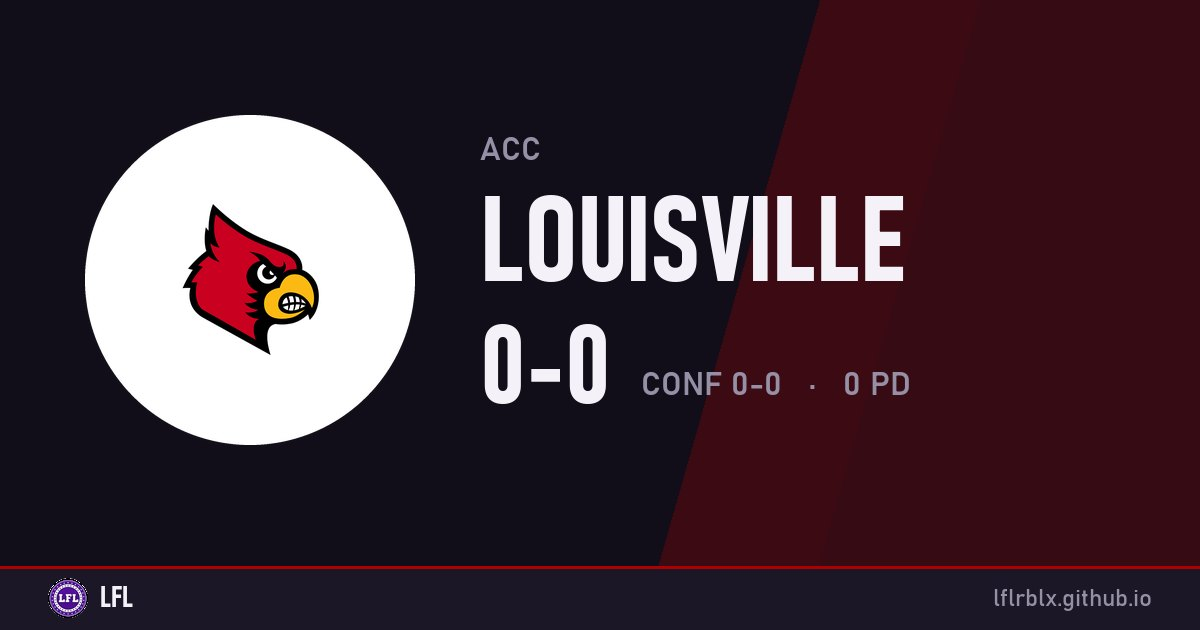
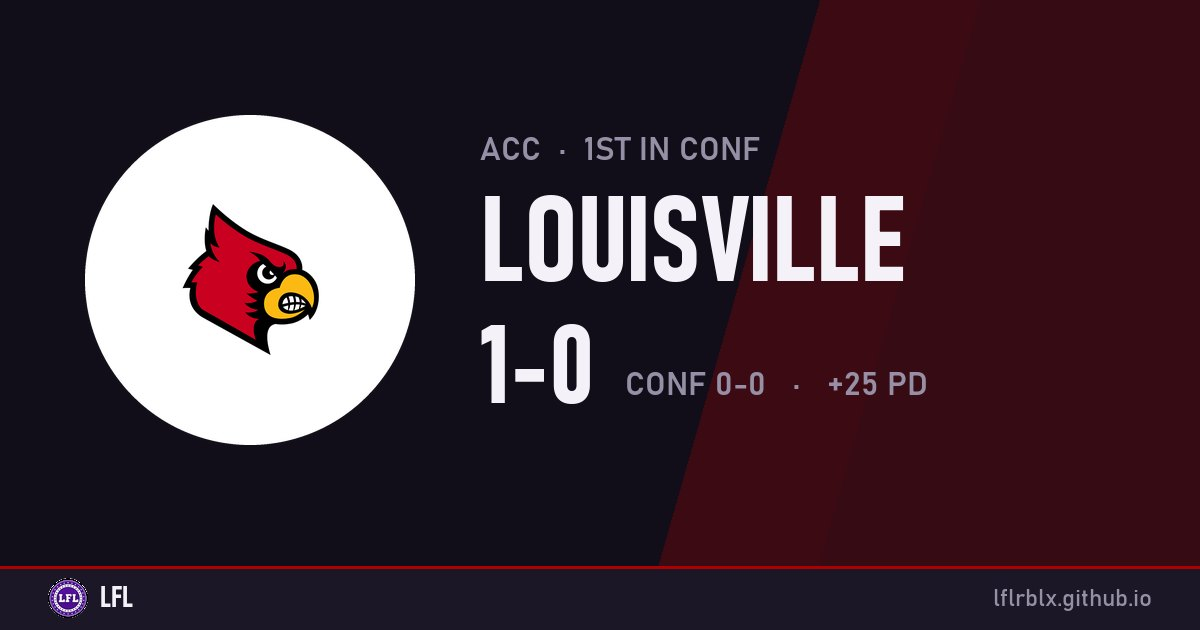
Stats update 2026-11-27 22:51

Changed region(s): [[0.4008, 0.5127, 0.7708, 0.6635], [0.4625, 0.2111, 0.6475, 0.2714]]

diff --git a/game/2/index.html b/game/2/index.html
@@ -1,0 +1,136 @@
+<!doctype html>
+<html lang="en">
+<head>
+  <meta charset="utf-8">
+  <meta name="viewport" content="width=device-width, initial-scale=1, viewport-fit=cover">
+  <!--meta:start-->
+  <title>Louisville 50, Michigan 25 · Final · LFL</title>
+  <meta name="description" content="Full box score on the LFL site.">
+  <meta name="theme-color" content="#ad0000">
+  <meta property="og:site_name" content="LFL">
+  <meta property="og:type" content="website">
+  <meta property="og:title" content="Louisville 50, Michigan 25 · Final · LFL">
+  <meta property="og:description" content="Full box score on the LFL site.">
+  <meta property="og:url" content="https://lflrblx.github.io/game/2">
+  <meta property="og:image" content="https://lflrblx.github.io/og/game-2.jpg?v=a69853e494">
+  <meta property="og:image:width" content="1200">
+  <meta property="og:image:height" content="630">
+  <meta name="twitter:card" content="summary_large_image">
+  <meta name="twitter:title" content="Louisville 50, Michigan 25 · Final · LFL">
+  <meta name="twitter:description" content="Full box score on the LFL site.">
+  <meta name="twitter:image" content="https://lflrblx.github.io/og/game-2.jpg?v=a69853e494">
+  <!--meta:end-->
+  <link rel="icon" href="/img/favicon.png">
+  <link rel="apple-touch-icon" href="/img/apple-touch-icon.png">
+  <link rel="preconnect" href="https://fonts.googleapis.com">
+  <link rel="preconnect" href="https://fonts.gstatic.com" crossorigin>
+  <link href="https://fonts.googleapis.com/css2?family=Barlow+Condensed:ital,wght@0,500;0,600;0,700;0,800;1,700;1,800&family=Barlow:wght@400;500;600;700&display=swap" rel="stylesheet">
+  <link rel="stylesheet" href="/styles.css?v=7f753bfb">
+  <script>
+    try { const t = localStorage.getItem("lfl-theme"); if (t) document.documentElement.dataset.theme = t; } catch (e) {}
+  </script>
+</head>
+<body>
+  <a class="skip" href="#app">Skip to content</a>
+
+  <header class="masthead">
+    <div class="mh-inner">
+      <a href="/" class="brand" data-link aria-label="LFL home">
+        <img src="/img/lfl-logo.png" alt="" width="36" height="36">
+        <span class="brand-word">LFL</span>
+      </a>
+      <span class="live" id="liveCount" hidden aria-live="polite"><i></i><b>1</b><span class="live-word">&nbsp;watching</span></span>
+      <nav class="mainnav" aria-label="Main">
+        <a href="/scores" data-link data-nav="scores">Scores</a>
+        <a href="/standings" data-link data-nav="standings">Standings</a>
+        <a href="/stats/qb" data-link data-nav="stats">Stats</a>
+        <a href="/teams" data-link data-nav="teams">Teams</a>
+        <a href="/heisman" data-link data-nav="heisman">Heisman Race</a>
+        <a href="/records" data-link data-nav="records">Records</a>
+      </nav>
+      <div class="mh-tools">
+        <button class="tool rp" id="searchBtn" aria-label="Search players and teams">
+          <svg viewBox="0 0 24 24"><circle cx="11" cy="11" r="6.5"/><path d="m20 20-4.2-4.2"/></svg>
+          <span class="tool-label">Search</span><kbd class="tool-kbd">/</kbd>
+        </button>
+        <button class="tool rp" id="themeBtn" aria-label="Switch light or dark mode">
+          <svg class="i-moon" viewBox="0 0 24 24"><path d="M20.5 13.2A8.5 8.5 0 1 1 10.8 3.5a6.6 6.6 0 0 0 9.7 9.7Z"/></svg>
+          <svg class="i-sun" viewBox="0 0 24 24"><circle cx="12" cy="12" r="4"/><path d="M12 2.5v2M12 19.5v2M4.6 4.6 6 6M18 18l1.4 1.4M2.5 12h2M19.5 12h2M4.6 19.4 6 18M18 6l1.4-1.4"/></svg>
+        </button>
+        <button class="join rp" id="discordBtn" hidden aria-haspopup="dialog">Join the league</button>
+      </div>
+    </div>
+    <div class="strip" id="strip" aria-label="Latest scores"></div>
+  </header>
+
+  <main id="app" tabindex="-1"><div class="boot"><img src="/img/lfl-logo.png" alt="" width="64" height="64"></div></main>
+
+  <footer class="footer">
+    <div class="ft-inner">
+      <div class="ft-brand">
+        <img src="/img/lfl-logo.png" alt="LFL" width="56" height="56">
+        <div>
+          <b>LFL</b>
+          <p id="updated">Stats update automatically after every game.</p>
+        </div>
+      </div>
+      <nav class="ft-cols">
+        <div><h4>League</h4><a href="/scores" data-link>Scores</a><a href="/standings" data-link>Standings</a><a href="/teams" data-link>Teams</a></div>
+        <div><h4>Stats</h4><a href="/stats/qb" data-link>Leaders</a><a href="/heisman" data-link>Heisman race</a><a href="/awards" data-link>Weekly awards</a></div>
+        <div><h4>More</h4><a href="/records" data-link>Record book</a><a href="/points" data-link>How PTS work</a><a id="ftDiscord" hidden href="#join">Join the league</a></div>
+      </nav>
+    </div>
+  </footer>
+
+  <nav class="dock" id="dock" aria-label="Main (mobile)">
+    <a href="/" data-link data-nav="home" class="rp"><svg viewBox="0 0 24 24"><path d="M4 10.5 12 4l8 6.5V20H15v-5.5H9V20H4Z"/></svg><span>Home</span></a>
+    <a href="/scores" data-link data-nav="scores" class="rp"><svg viewBox="0 0 24 24"><rect x="3.5" y="5" width="17" height="14" rx="2"/><path d="M12 5v14"/></svg><span>Scores</span></a>
+    <a href="/standings" data-link data-nav="standings" class="rp"><svg viewBox="0 0 24 24"><path d="M5 20V10M12 20V4M19 20v-7"/></svg><span>Standings</span></a>
+    <a href="/stats/qb" data-link data-nav="stats" class="rp"><svg viewBox="0 0 24 24"><path d="M4 6h16M4 12h16M4 18h10"/></svg><span>Stats</span></a>
+    <button data-nav="more" id="moreBtn" class="rp" aria-haspopup="true" aria-expanded="false"><svg viewBox="0 0 24 24"><circle cx="5" cy="12" r="1.4"/><circle cx="12" cy="12" r="1.4"/><circle cx="19" cy="12" r="1.4"/></svg><span>More</span></button>
+  </nav>
+
+  <div class="sheet" id="moreSheet" hidden>
+    <div class="sheet-card">
+      <a href="/teams" data-link class="sheet-item rp">Teams</a>
+      <a href="/heisman" data-link class="sheet-item rp">Heisman race</a>
+      <a href="/awards" data-link class="sheet-item rp">Weekly awards</a>
+      <a href="/records" data-link class="sheet-item rp">Record book</a>
+      <a href="/points" data-link class="sheet-item rp">How PTS work</a>
+    </div>
+  </div>
+
+  <div class="search" id="search" hidden>
+    <div class="search-card" role="dialog" aria-label="Search">
+      <div class="search-row">
+        <svg viewBox="0 0 24 24"><circle cx="11" cy="11" r="6.5"/><path d="m20 20-4.2-4.2"/></svg>
+        <input id="searchInput" placeholder="Search players or teams" autocomplete="off" spellcheck="false">
+        <kbd>Esc</kbd>
+      </div>
+      <div class="search-results" id="searchResults"></div>
+    </div>
+  </div>
+
+  <div class="joinbox" id="joinBox" hidden>
+    <div class="join-card" role="dialog" aria-modal="true" aria-labelledby="joinTitle">
+      <button class="join-x rp" id="joinClose" aria-label="Close"><svg viewBox="0 0 24 24"><path d="M6 6l12 12M18 6 6 18"/></svg></button>
+      <img class="join-logo" src="/img/lfl-logo.png" alt="" width="72" height="72">
+      <h2 id="joinTitle">Join the LFL</h2>
+      <p class="join-sub">Everything happens in our Discord: sign-ups, teams, schedules, refs and game nights.</p>
+      <ol class="join-steps">
+        <li><b>Join the Discord</b><span>Tap the button below to open the server.</span></li>
+        <li><b>Read the rules &amp; sign up</b><span>Follow the sign-up steps in the server to get on a team.</span></li>
+        <li><b>Play</b><span>Your stats land on this site automatically after every game.</span></li>
+      </ol>
+      <a class="join-go rp" id="joinGo" target="_blank" rel="noopener"><svg class="dc" viewBox="0 0 24 24"><path d="M19.6 5.3A16.6 16.6 0 0 0 15.5 4l-.5 1a15.4 15.4 0 0 0-6 0l-.5-1a16.6 16.6 0 0 0-4.1 1.3C1.8 9.2 1.1 13 1.4 16.8a16.7 16.7 0 0 0 5 2.5l1.1-1.7a10.8 10.8 0 0 1-1.7-.8l.4-.3a11.9 11.9 0 0 0 11.6 0l.4.3a10.8 10.8 0 0 1-1.7.8l1.1 1.7a16.7 16.7 0 0 0 5-2.5c.4-4.4-.7-8.2-3-11.5ZM8.7 14.5c-1 0-1.8-.9-1.8-2s.8-2 1.8-2 1.8.9 1.8 2-.8 2-1.8 2Zm6.6 0c-1 0-1.8-.9-1.8-2s.8-2 1.8-2 1.8.9 1.8 2-.8 2-1.8 2Z"/></svg><span>Open Discord</span></a>
+      <button class="join-copy rp" id="joinCopy">Copy invite link</button>
+    </div>
+  </div>
+
+  <div class="toast" id="toast" hidden></div>
+
+  <script>window.LFL_FIREBASE = { projectId: "lflrblx-370f8", databaseURL: "https://lflrblx-370f8-default-rtdb.firebaseio.com" };</script>
+  <script type="module" src="/live.js?v=3bd25d02"></script>
+  <script src="/app.js?v=88436754" defer></script>
+</body>
+</html>

diff --git a/team/louisville/index.html b/team/louisville/index.html
@@ -5,20 +5,20 @@
   <meta name="viewport" content="width=device-width, initial-scale=1, viewport-fit=cover">
   <!--meta:start-->
   <title>Louisville · LFL</title>
-  <meta name="description" content="Louisville · ACC · 0-0 (0-0 conf) · 0 PD. Schedule, results, leaders and roster.">
+  <meta name="description" content="Louisville · ACC · 1-0 (0-0 conf) · +25 PD. Schedule, results, leaders and roster.">
   <meta name="theme-color" content="#ad0000">
   <meta property="og:site_name" content="LFL">
   <meta property="og:type" content="website">
   <meta property="og:title" content="Louisville · LFL">
-  <meta property="og:description" content="Louisville · ACC · 0-0 (0-0 conf) · 0 PD. Schedule, results, leaders and roster.">
+  <meta property="og:description" content="Louisville · ACC · 1-0 (0-0 conf) · +25 PD. Schedule, results, leaders and roster.">
   <meta property="og:url" content="https://lflrblx.github.io/team/louisville">
-  <meta property="og:image" content="https://lflrblx.github.io/og/team-louisville.jpg?v=ad8e91cd99">
+  <meta property="og:image" content="https://lflrblx.github.io/og/team-louisville.jpg?v=98eb1631f5">
   <meta property="og:image:width" content="1200">
   <meta property="og:image:height" content="630">
   <meta name="twitter:card" content="summary_large_image">
   <meta name="twitter:title" content="Louisville · LFL">
-  <meta name="twitter:description" content="Louisville · ACC · 0-0 (0-0 conf) · 0 PD. Schedule, results, leaders and roster.">
-  <meta name="twitter:image" content="https://lflrblx.github.io/og/team-louisville.jpg?v=ad8e91cd99">
+  <meta name="twitter:description" content="Louisville · ACC · 1-0 (0-0 conf) · +25 PD. Schedule, results, leaders and roster.">
+  <meta name="twitter:image" content="https://lflrblx.github.io/og/team-louisville.jpg?v=98eb1631f5">
   <!--meta:end-->
   <link rel="icon" href="/img/favicon.png">
   <link rel="apple-touch-icon" href="/img/apple-touch-icon.png">

diff --git a/team/michigan/index.html b/team/michigan/index.html
@@ -5,20 +5,20 @@
   <meta name="viewport" content="width=device-width, initial-scale=1, viewport-fit=cover">
   <!--meta:start-->
   <title>Michigan · LFL</title>
-  <meta name="description" content="Michigan · Big Ten · 0-0 (0-0 conf) · 0 PD. Schedule, results, leaders and roster.">
+  <meta name="description" content="Michigan · Big Ten · 0-1 (0-0 conf) · -25 PD. Schedule, results, leaders and roster.">
   <meta name="theme-color" content="#00274c">
   <meta property="og:site_name" content="LFL">
   <meta property="og:type" content="website">
   <meta property="og:title" content="Michigan · LFL">
-  <meta property="og:description" content="Michigan · Big Ten · 0-0 (0-0 conf) · 0 PD. Schedule, results, leaders and roster.">
+  <meta property="og:description" content="Michigan · Big Ten · 0-1 (0-0 conf) · -25 PD. Schedule, results, leaders and roster.">
   <meta property="og:url" content="https://lflrblx.github.io/team/michigan">
-  <meta property="og:image" content="https://lflrblx.github.io/og/team-michigan.jpg?v=879c1134ae">
+  <meta property="og:image" content="https://lflrblx.github.io/og/team-michigan.jpg?v=82b12c8763">
   <meta property="og:image:width" content="1200">
   <meta property="og:image:height" content="630">
   <meta name="twitter:card" content="summary_large_image">
   <meta name="twitter:title" content="Michigan · LFL">
-  <meta name="twitter:description" content="Michigan · Big Ten · 0-0 (0-0 conf) · 0 PD. Schedule, results, leaders and roster.">
-  <meta name="twitter:image" content="https://lflrblx.github.io/og/team-michigan.jpg?v=879c1134ae">
+  <meta name="twitter:description" content="Michigan · Big Ten · 0-1 (0-0 conf) · -25 PD. Schedule, results, leaders and roster.">
+  <meta name="twitter:image" content="https://lflrblx.github.io/og/team-michigan.jpg?v=82b12c8763">
   <!--meta:end-->
   <link rel="icon" href="/img/favicon.png">
   <link rel="apple-touch-icon" href="/img/apple-touch-icon.png">

diff --git a/game/1/index.html b/game/1/index.html
@@ -12,13 +12,13 @@
   <meta property="og:title" content="Kentucky 33, Alabama 13 · Final · LFL">
   <meta property="og:description" content="Foldgun had 291 passing yards and 5 TDs as Kentucky beat Alabama 33–13. Player of the game: Foldgun (34.2 PTS).">
   <meta property="og:url" content="https://lflrblx.github.io/game/1">
-  <meta property="og:image" content="https://lflrblx.github.io/og/game-1.jpg?v=9421dcea47">
+  <meta property="og:image" content="https://lflrblx.github.io/og/game-1.jpg?v=5aff6c5ed7">
   <meta property="og:image:width" content="1200">
   <meta property="og:image:height" content="630">
   <meta name="twitter:card" content="summary_large_image">
   <meta name="twitter:title" content="Kentucky 33, Alabama 13 · Final · LFL">
   <meta name="twitter:description" content="Foldgun had 291 passing yards and 5 TDs as Kentucky beat Alabama 33–13. Player of the game: Foldgun (34.2 PTS).">
-  <meta name="twitter:image" content="https://lflrblx.github.io/og/game-1.jpg?v=9421dcea47">
+  <meta name="twitter:image" content="https://lflrblx.github.io/og/game-1.jpg?v=5aff6c5ed7">
   <!--meta:end-->
   <link rel="icon" href="/img/favicon.png">
   <link rel="apple-touch-icon" href="/img/apple-touch-icon.png">
